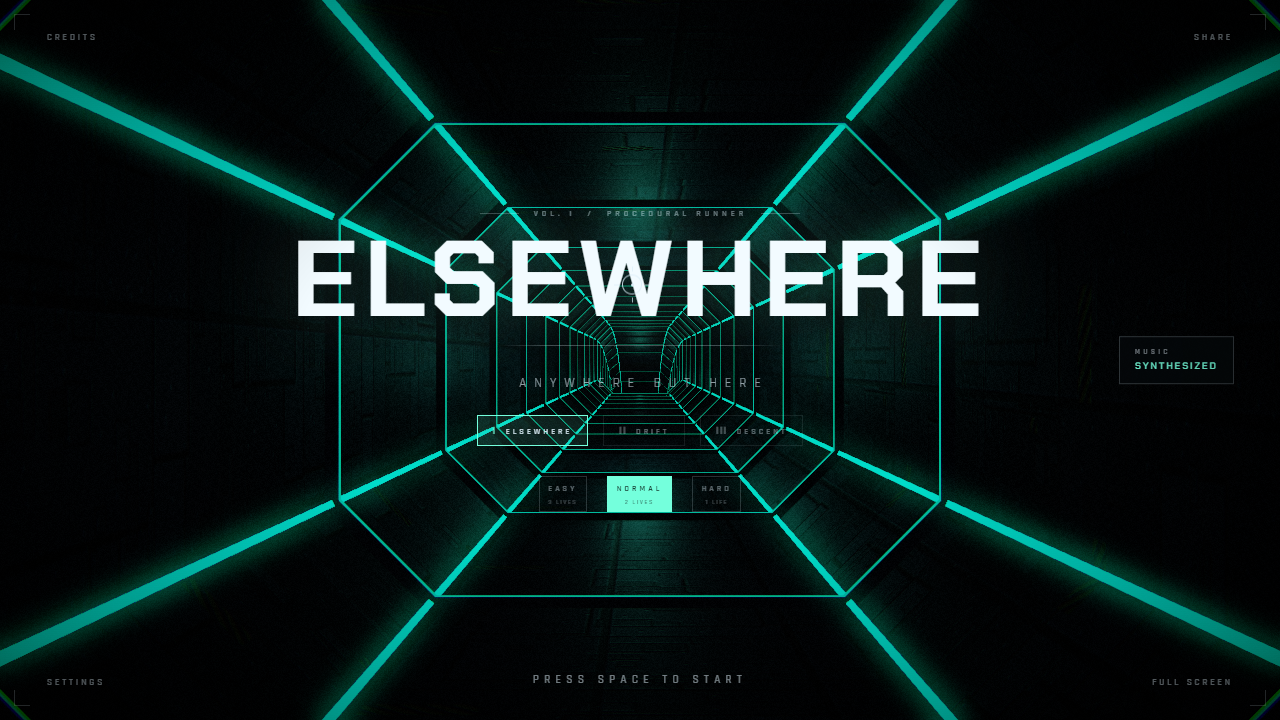
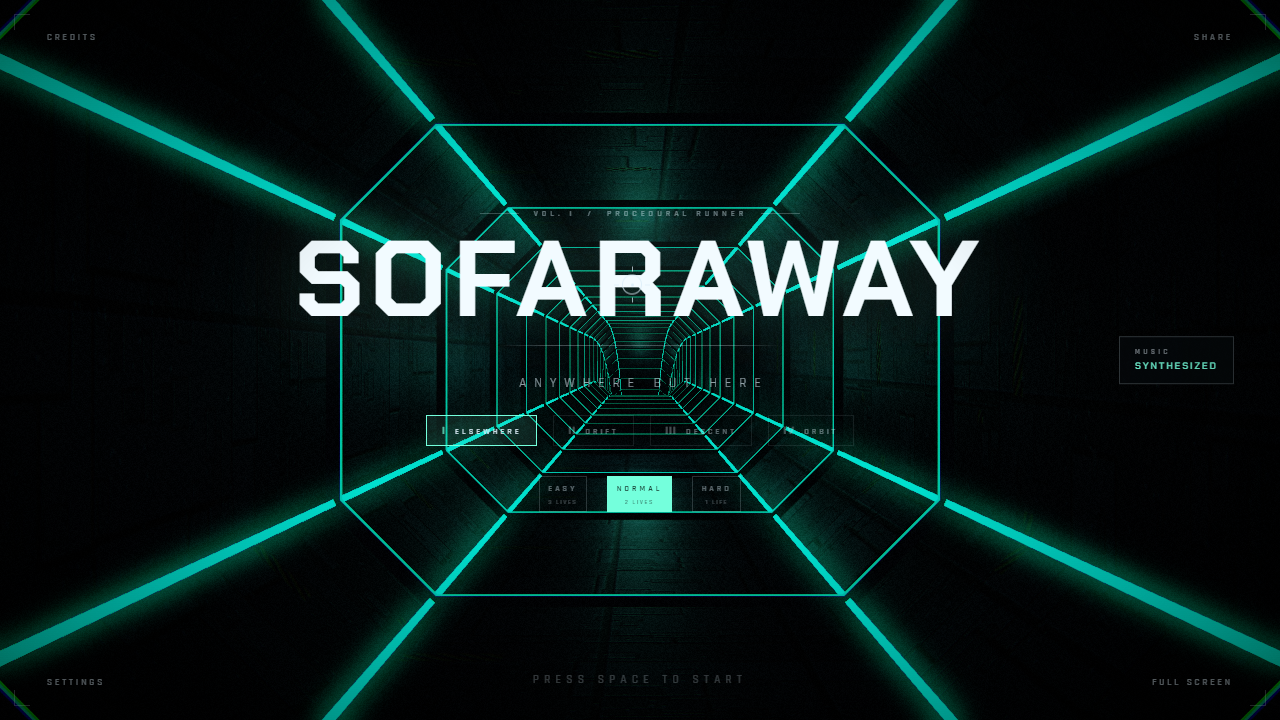
chore: rename the project to SoFaraway
The repository is now librecosta/sofaraway. Everything that named the old title
follows: package name, homepage, title tag, wordmark, about copy, localStorage
keys, recorder filename, offline renderer.

README rewritten — it still described the single-volume build with a 3x3 plate
gate, a camera that never moves, a wireframe title screen and a 42% reticle. All
of that has been untrue for a while. It now documents the four volumes, the
config layer, the lane abstraction and the current debug parameters.

Stale screenshots removed (_fix, _wall*, bend, boost, gate-closeup); the six kept
are the four volumes plus the menu and the ending.

Volume I is still called ELSEWHERE. That is a place name now, not the project.

diff --git a/js/main.js b/js/main.js
@@ -188,7 +188,7 @@ const SEC_PER_BEAT = 60 / BPM;
 const State = { MENU: 'menu', PLAY: 'play', CRASH: 'crash', OVER: 'over' };
 
 const DIFF_KEYS = ['easy', 'normal', 'hard'];
-let difficulty = localStorage.getItem('elsewhere.difficulty') || 'normal';
+let difficulty = localStorage.getItem('sofaraway.difficulty') || 'normal';
 if (!DIFFICULTY[difficulty]) difficulty = 'normal';
 
 const G = {
@@ -199,7 +199,7 @@ const G = {
   distance: 0,
   speed: 24,
   score: 0,
-  best: parseInt(localStorage.getItem('elsewhere.best') || '0', 10),
+  best: parseInt(localStorage.getItem('sofaraway.best') || '0', 10),
   combo: 0,
   maxCombo: 0,
   gatesPassed: 0,
@@ -498,7 +498,7 @@ function endRun(title) {
 
     if (G.score > G.best) {
       G.best = Math.floor(G.score);
-      localStorage.setItem('elsewhere.best', String(G.best));
+      localStorage.setItem('sofaraway.best', String(G.best));
     }
   }, 700);
 }
@@ -824,7 +824,7 @@ document.getElementById('ui').addEventListener('click', (e) => {
   const diffBtn = e.target.closest('[data-diff]');
   if (diffBtn) {
     difficulty = diffBtn.dataset.diff;
-    localStorage.setItem('elsewhere.difficulty', difficulty);
+    localStorage.setItem('sofaraway.difficulty', difficulty);
     syncDifficulty();
     return;
   }
@@ -838,7 +838,7 @@ document.getElementById('ui').addEventListener('click', (e) => {
     else document.exitFullscreen?.();
   }
   if (act === 'credits') openPanel('CREDITS', `
-    <b>ELSEWHERE</b> — a browser rhythm runner.<br>
+    <b>SoFaraway</b> — a browser rhythm runner.<br>
     Thread the gates, ride the beat.<br><br>
     Made by <b>librecosta</b>.<br>
     Built with three.js r187 on WebGL2.<br>

diff --git a/index.html b/index.html
@@ -4,8 +4,8 @@
 <meta charset="utf-8">
 <meta name="viewport" content="width=device-width, initial-scale=1, maximum-scale=1, user-scalable=no">
 <meta name="theme-color" content="#000000">
-<meta name="description" content="ELSEWHERE — a hypnotic browser rhythm runner. Thread the gates, ride the beat. Procedural music, procedural worlds, zero assets.">
-<title>ELSEWHERE — a rhythm runner</title>
+<meta name="description" content="SoFaraway — a hypnotic browser rhythm runner. Thread the gates, ride the beat. Procedural music, procedural worlds, zero assets.">
+<title>SoFaraway — a rhythm runner</title>
 <link rel="preload" href="css/fonts/rajdhani-300.woff2" as="font" type="font/woff2" crossorigin>
 <link rel="preload" href="css/fonts/chakra-700.woff2" as="font" type="font/woff2" crossorigin>
 <link rel="stylesheet" href="css/style.css">
@@ -44,7 +44,7 @@
       <div class="eyebrow">
         <i></i><span>VOL. I &nbsp;/&nbsp; PROCEDURAL&nbsp;RUNNER</span><i></i>
       </div>
-      <h1 class="wordmark">ELSEWHERE</h1>
+      <h1 class="wordmark">SOFARAWAY</h1>
       <div class="rule"></div>
       <div class="tagline">ANYWHERE BUT HERE</div>
       <div class="vols" id="vols">

diff --git a/tools/render-audio.html b/tools/render-audio.html
@@ -2,7 +2,7 @@
 <html lang="en">
 <head>
 <meta charset="utf-8">
-<title>ELSEWHERE — soundtrack render</title>
+<title>SoFaraway — soundtrack render</title>
 <style>
   @font-face{ font-family:"Rajdhani"; font-weight:300; font-display:swap;
     src:url("../css/fonts/rajdhani-300.woff2") format("woff2"); }
@@ -29,7 +29,7 @@
 <div class="wrap">
   <h1>SOUNDTRACK RENDER</h1>
   <p>
-    ELSEWHERE ships no audio files. The score is synthesised live by the Web Audio
+    SoFaraway ships no audio files. The score is synthesised live by the Web Audio
     engine in <code>js/audio.js</code>. This page runs that same engine against an
     <code>OfflineAudioContext</code> and writes the whole 3:30 to a WAV you can keep.
   </p>
@@ -105,7 +105,7 @@ async function render(){
     const url = URL.createObjectURL(blob);
     const a = document.createElement('a');
     a.href = url;
-    a.download = 'elsewhere-vol1.wav';
+    a.download = 'sofaraway-vol1.wav';
     document.body.appendChild(a);
     if (location.search.indexOf('nodownload=1') < 0) { a.click(); }
     a.remove();

diff --git a/js/recorder.js b/js/recorder.js
@@ -161,7 +161,7 @@ export class Recorder {
     const url = URL.createObjectURL(blob);
     const a = document.createElement('a');
     a.href = url;
-    a.download = 'elsewhere-camlog.json';
+    a.download = 'sofaraway-camlog.json';
     document.body.appendChild(a);
     a.click();
     a.remove();

diff --git a/css/style.css b/css/style.css
@@ -1,5 +1,5 @@
 /* ------------------------------------------------------------------ *
-   ELSEWHERE — interface
+   SoFaraway — interface
    Display: Chakra Petch   ·   UI / numerals: Rajdhani
    ------------------------------------------------------------------ */
 

diff --git a/README.md b/README.md
@@ -1,29 +1,35 @@
-# ELSEWHERE
+# SoFaraway
 
 > **A hypnotic browser rhythm runner. Thread the gates, ride the beat.**
 
-Vol. I · zero assets · zero build step · WebGL2
+Vol. I–IV · zero assets · zero build step · WebGL2
 
 ![Menu](shots/menu.png)
-
-![Gameplay](shots/gate-closeup.png)
 
 ---
 
 ## What it is
 
-You fall forward down a corridor at 128 BPM. Bulkheads rush at you — each one a
-three-by-three assembly of bolted plates with a single cell missing. The centre plate
-never opens. Be in the missing cell when it reaches you.
+You fly down a corridor at the tempo of a soundtrack that is being synthesised
+while you play. Bulkheads rush at you. Each one has exactly one opening. Be in it
+when it arrives.
 
-The world is built from the soundtrack: gates arrive on beat boundaries, the tunnel
-pulses on the kick, and the palette shifts every eight bars.
+Four volumes. Each is a different corridor, a different kind of glass, and a
+different arrangement — but the same engine underneath.
+
+| | World | Glass | Music | Length | Gates |
+|---|---|---|---|---|---|
+| **I · ELSEWHERE** | closed octagonal conduit | **iris** — one of eight radial panes missing | techno · 128 | 3:30 | 144 |
+| **II · DRIFT** | open canal, sky above | **shutter** — one of three slats missing, horizontal or vertical | downtempo · 96 | 2:20 | 40 |
+| **III · DESCENT** | vertical shaft | **lattice** — one of eight plates missing, centre always solid | industrial · 110 | 4:10 | 158 |
+| **IV · ORBIT** | light only, stars behind | **aperture** — one round hole in a full pane | synthwave · 100 | 3:00 | 91 |
+
+The palette, the pulse and the gates are all driven by the same beat clock, so
+the world moves to the music rather than alongside it.
 
 ## Play
 
-**Online** → <https://elsewhere.librecosta.com>
-
-**Locally** — it's a static site. Any file server works:
+**Local** — it is a static site. Any file server works:
 
 ```bash
 python -m http.server 8080
@@ -41,87 +47,91 @@ else is hand-written ES modules.
 
 | Input | Action |
 | --- | --- |
-| Mouse / touch drag | Steer |
+| Mouse / touch drag | Steer — the reticle follows your hand across the whole window |
 | Arrow keys / WASD | Steer |
+| Hold left button / `Shift` | Boost |
 | `Space` | Start · retry |
 | `M` | Mute |
 | `Esc` | Back to menu |
+| `R` | Flight recorder overlay · `Shift+R` downloads the log |
 
-## How it works
+## How it is built
 
-**The camera never moves.** The tunnel geometry repeats every 3 units, so the whole
-group is simply offset by `distance % 3` each frame. Visually indistinguishable from
-real forward travel, but the geometry is never rebuilt and nothing is ever recycled.
+**Everything is configuration.** `js/volumes.js` holds one record per map: tempo,
+length, the section table, corridor topology, glass style, palette, lives. The
+chart and the arrangement both read the *same* section table, so gate density and
+instrumentation can never drift apart.
 
-**Gates are indexed in beats, not metres.** Each gate stores how many beats remain
-(`dBeats`) and decrements by `dt × BPM / 60`. The world position is only computed at
-render time. That means a gate always arrives exactly on a beat, no matter how the
-speed ramps.
+**The corridor is a curve.** `js/path.js` integrates frames along a centreline of
+straights joined by quarter turns — left, right, up or down. The camera, the
+geometry and every bulkhead sample the same curve.
 
-**One cell grid, two implementations.** The wall draws its 3x3 plate grid from `uv`;
-the collision runs the same index arithmetic over the player's world position. The
-shader and the judgement cannot disagree about which cell the gap is in.
+**Geometry streams.** `js/tunnel.js` builds 210-unit chunks that grow ahead *and*
+behind the camera, so a turn is fully built long before you can see it, and a
+knockback never walks off the edge of the world.
 
-**The wireframe menu is not a triangle wireframe.** Drawing the scene with
-`wireframe: true` gives you every quad diagonal, which reads as noise. The title
-screen instead uses a dedicated `LineSegments` layer: ring pairs on a half-module
-grid, radial panel ticks, and eight longitudinal seams — nothing crosses a face
-diagonally, so every line is parallel or concentric.
+**Glass is a lane abstraction.** `laneOf` / `lanePoint` / `laneCount` hide the fact
+that an iris counts eight angles, a shutter counts three heights, a lattice counts
+nine cells and an aperture counts... one round hole. Judgement, scoring, the
+auto-align bot and the reticle lock all go through those three functions.
 
-**The in-game cursor is not a fixed reticle.** The camera sits at 42% of the way to
-the vessel, so the marker lands off-centre and slides across the screen as you
-steer. It is projected every frame with `Vector3.project()`, which means what you
-aim with is exactly what collides.
-
-**No post-processing library.** A hand-rolled chain: a half-res depth pass (linear
-view-space distance straight into R) → depth-of-field gather with a 14-tap golden-angle
+**No post-processing library.** A hand-rolled chain: half-res depth pass (linear
+view-space distance straight into R) → depth-of-field gather with a golden-angle
 kernel → bright-pass at quarter resolution → separable Gaussian ×2 → composite with
 bloom, radial chromatic aberration, vignette, grain, scanlines, flash and an ACES
-shoulder. Focus rides the gate you are about to thread.
+shoulder.
 
-**The music is synthesized, not loaded.** Drums, bass, pad and arp are scheduled with
-a 120 ms lookahead against `AudioContext.currentTime`, and the game clock reads back
-from the audio clock so visuals cannot drift.
+**The music is synthesized, not loaded.** Drums, bass, pad and arp are scheduled
+with a 120 ms lookahead against `AudioContext.currentTime`, and the game clock reads
+back from the audio clock so visuals cannot drift. Section changes fire risers and
+impacts; the last two bars drop the drums and let the piece ring out as the screen
+washes to white.
 
 ## Project layout
 
 ```
 .
-├── index.html            entry point + import map
-├── css/style.css         menu / HUD / game-over UI
+├── index.html              entry point + import map
+├── css/style.css           menu / HUD / game-over UI
 ├── vendor/
-│   ├── three.module.js   three.js r187
+│   ├── three.module.js     three.js r187
 │   └── three.core.js
+├── tools/render-audio.html offline render → WAV
 └── js/
-    ├── main.js           state machine, loop, input, camera, collision
-    ├── tunnel.js         octagonal corridor: shell, ribs, light strips, rig
-    ├── gates.js          holographic gates: hex SDF, scanline shader, drift
-    ├── audio.js          procedural soundtrack (Web Audio)
-    ├── post.js           blood, sweat and bloom
-    └── textures.js       procedural canvas textures: hull, normal, grating
+    ├── main.js             state machine, loop, input, camera, collision
+    ├── volumes.js          the four volumes, as data
+    ├── path.js             centreline, frames, straights and quarter turns
+    ├── tunnel.js           chunked corridor: shell, ribs, light strips, rig
+    ├── gates.js            bulkheads: iris / shutter / lattice / aperture
+    ├── chart.js            gate chart from the section table
+    ├── audio.js            procedural soundtrack (Web Audio)
+    ├── post.js             depth, bloom, chromatic aberration, grain
+    ├── textures.js         procedural canvas textures
+    └── recorder.js         camera flight recorder + live trace overlay
 ```
 
 ## Debug parameters
 
-Useful for screenshots and for poking at the renderer.
-
 | Param | Effect |
 | --- | --- |
+| `?vol=drift` | Load a volume (`elsewhere` · `drift` · `descent` · `orbit`) |
 | `?t=24.4` | Deterministic — simulate to 24.4 s, then render one frame |
-| `?align=1` | Auto-align to the nearest gate opening |
 | `?god=1` | Disable collision |
 | `?q=low` | Lock pixel ratio to 1 |
-| `?post=0` | Bypass post-processing |
+| `?rec=1` | Open the flight recorder |
 | `?ui=0` | Hide the UI |
-| `?dbg=1` | Draw-call / triangle / state readout |
+| `?dbg=1` | Draw-call / triangle readout |
 
-## Roadmap
+## Status
 
-- [ ] Vol. II — a second world and a second soundtrack
-- [ ] WebGPU path via `three.js` `WebGPURenderer` + TSL
-- [ ] Music that builds: intro / drop / breakdown sections per volume
+Four volumes are playable. What is left is not more content:
+
+- [ ] Art pass 1 — geometry density: closer ribs, panel recesses, bolts
+- [ ] Art pass 2 — baked lighting: UV atlas, AO and irradiance maps
+- [ ] Art pass 3 — WebGPU global illumination
+- [ ] Settle what boost changes (speed / score / field of view)
+- [ ] A second verb, if the game needs one
 - [ ] Mobile touch tuning
-- [ ] Replay ghosts driven by the same beat clock
 
 ## Credits
 
@@ -133,7 +143,7 @@ audio files.
 
 **Inspiration.** The mechanic is inspired by **HelloRun** (HelloEnjoy, 2013), a
 browser game that proved WebGL could be this hypnotic. No code, assets or audio from
-it are used here. ELSEWHERE is an independent work that borrows a design idea and
+it are used here. SoFaraway is an independent work that borrows a design idea and
 takes it somewhere else.
 
 ## License
